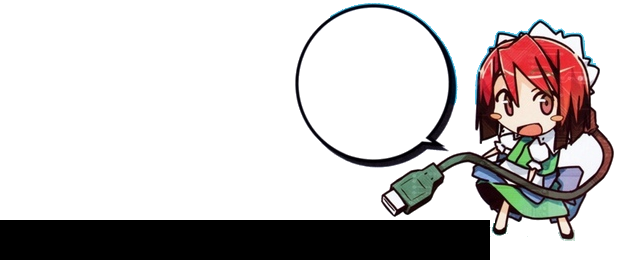
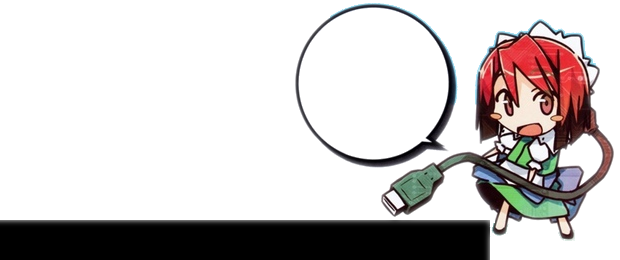
Completed Elements Position Configure

diff --git a/meidochan.c b/meidochan.c
@@ -48,28 +48,42 @@ int main(int argc, char *argv[]) {
 	char *msg;
 	int width, height;
 	char *mask;
+	int msgx, msgy, msgw, txtx, txty, txtw, txth;
 	char *rcpath = getenv("HOME");
 	strcat(rcpath,"/.meidochan/rc.lua");
 	if(luaL_loadfile(L, rcpath)!=0){
 		msg = "Welcome\nMaster\nSama!~";
 		width = 620;
 		height = 260;
-		mask = "/path/to/your/mask.png";
+		mask = "/default/path/to/your/mask.png";
 	}
 	else{
 	lua_pcall(L, 0, 0, 0);
 	lua_getglobal(L, "msg");
 	msg = (char *)lua_tostring(L, 1);
-	//printf("%s\n", msg);
+//	printf("%s\n", msg);
 	lua_getglobal(L, "width");
 	width = (int)lua_tointeger(L, 2);
-	//printf("%d\n", width);
+//	printf("%d\n", width);
 	lua_getglobal(L, "height");
 	height = (int)lua_tointeger(L, 3);
-	//printf("%d\n", height);
+//	printf("%d\n", height);
 	lua_getglobal(L, "mask");
 	mask = (char *)lua_tostring(L, 4);
-	//printf("%s\n", mask);
+	lua_getglobal(L, "msgx");
+	msgx = (int)lua_tointeger(L, 5);
+	lua_getglobal(L, "msgy");
+	msgy = (int)lua_tointeger(L, 6);
+	lua_getglobal(L, "msgw");
+	msgw = (int)lua_tointeger(L, 7);
+	lua_getglobal(L, "txtx");
+	txtx = (int)lua_tointeger(L, 8);
+	lua_getglobal(L, "txty");
+	txty = (int)lua_tointeger(L, 9);
+	lua_getglobal(L, "txtw");
+	txtw = (int)lua_tointeger(L, 10);
+	lua_getglobal(L, "txth");
+	txth = (int)lua_tointeger(L, 11);
 	}
 	/*
 	 * Done reading from lua file
@@ -105,13 +119,13 @@ int main(int argc, char *argv[]) {
 	/* Welcome message done */
 
 	gtk_label_set_markup(GTK_LABEL(lbl_welcome), wel_msg);
-	gtk_label_set_width_chars(GTK_LABEL(lbl_welcome), 12);
+	gtk_label_set_width_chars(GTK_LABEL(lbl_welcome), msgw);
 	gtk_misc_set_alignment(GTK_MISC(lbl_welcome),0.5,0);
 	fixed = gtk_fixed_new();
 	gtk_container_add(GTK_CONTAINER(wd_main),fixed);
-	gtk_widget_set_size_request(txt_main, 490, 40);
-	gtk_fixed_put(GTK_FIXED(fixed),txt_main,0,220);
-	gtk_fixed_put(GTK_FIXED(fixed),lbl_welcome,325,50);
+	gtk_widget_set_size_request(txt_main, txtw, txth);
+	gtk_fixed_put(GTK_FIXED(fixed),txt_main, txtx, txty);
+	gtk_fixed_put(GTK_FIXED(fixed), lbl_welcome, msgx, msgy);
 	g_signal_connect(G_OBJECT(wd_main), "delete_event", 
 			G_CALLBACK(gtk_main_quit), NULL);
 	g_signal_connect(G_OBJECT(txt_main), "activate", 
